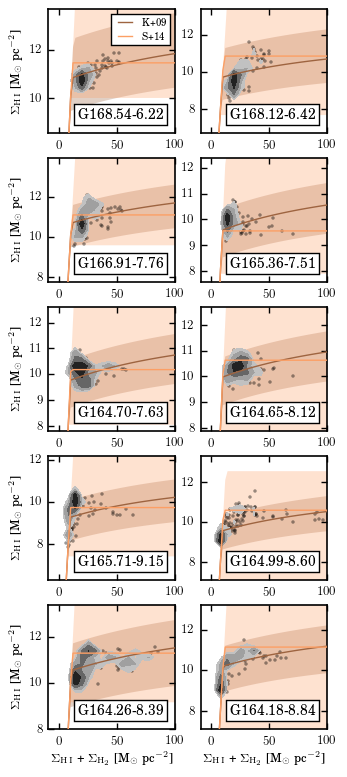
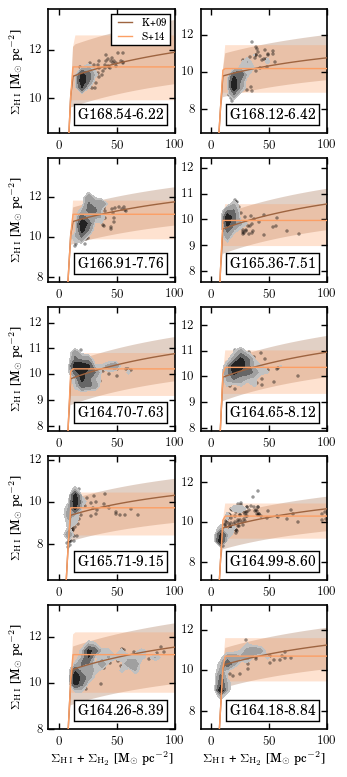
new post

diff --git a/images/2015-10-14/multicloud_model_params.tex b/images/2015-10-14/multicloud_model_params.tex
@@ -1,32 +1,32 @@
-California & G164.18-8.84 & 49.5$^{+33.8}_{-132.7}$ & 4.6$^{+0.5}_{-0.9}$ & 10.4$^{+1.3}_{-1.0}$ \\[0.1cm] 
- & G164.26-8.39 & 41.5$^{+17.6}_{-110.7}$ & 4.4$^{+0.6}_{-1.1}$ & 10.7$^{+1.6}_{-1.2}$ \\[0.1cm] 
- & G164.65-8.12 & 28.8$^{+17.4}_{-38.4}$ & 4.7$^{+0.4}_{-0.8}$ & 10.1$^{+1.1}_{-0.8}$ \\[0.1cm] 
- & G164.70-7.63 & 25.9$^{+10.8}_{-210.9}$ & 4.8$^{+0.5}_{-0.8}$ & 9.9$^{+1.1}_{-0.8}$ \\[0.1cm] 
- & G164.99-8.60 & 45.3$^{+37.8}_{-31.7}$ & 5.0$^{+0.5}_{-0.7}$ & 9.7$^{+1.0}_{-0.8}$ \\[0.1cm] 
- & G165.36-7.51 & 31.2$^{+11.6}_{-42.6}$ & 5.0$^{+0.5}_{-0.8}$ & 9.7$^{+1.1}_{-0.8}$ \\[0.1cm] 
- & G165.71-9.15 & 43.4$^{+22.0}_{-118.6}$ & 5.2$^{+0.6}_{-1.0}$ & 9.4$^{+1.2}_{-0.8}$ \\[0.1cm] 
- & G166.91-7.76 & 34.9$^{+10.9}_{-69.3}$ & 4.3$^{+0.4}_{-0.7}$ & 10.9$^{+1.2}_{-0.9}$ \\[0.1cm] 
- & G168.12-6.42 & 42.3$^{+24.5}_{-95.5}$ & 4.9$^{+0.9}_{-1.0}$ & 9.9$^{+1.3}_{-1.6}$ \\[0.1cm] 
- & G168.54-6.22 & 31.9$^{+9.2}_{-88.9}$ & 4.2$^{+0.7}_{-0.8}$ & 11.0$^{+1.4}_{-1.7}$ \\[0.1cm] 
+California & G164.18-8.84 & 6.7$^{+1.2}_{-1.0}$ & 4.5$^{+0.4}_{-0.8}$ & 10.4$^{+1.2}_{-0.8}$ \\[0.1cm] 
+ & G164.26-8.39 & 7.2$^{+1.7}_{-1.1}$ & 4.4$^{+0.5}_{-1.0}$ & 10.7$^{+1.6}_{-1.0}$ \\[0.1cm] 
+ & G164.65-8.12 & 6.3$^{+1.0}_{-0.7}$ & 4.7$^{+0.4}_{-0.7}$ & 10.1$^{+1.0}_{-0.6}$ \\[0.1cm] 
+ & G164.70-7.63 & 6.2$^{+1.0}_{-0.6}$ & 4.8$^{+0.4}_{-0.8}$ & 10.0$^{+1.1}_{-0.6}$ \\[0.1cm] 
+ & G164.99-8.60 & 6.3$^{+1.1}_{-0.7}$ & 4.9$^{+0.4}_{-0.8}$ & 9.9$^{+1.1}_{-0.6}$ \\[0.1cm] 
+ & G165.36-7.51 & 5.9$^{+0.9}_{-0.6}$ & 4.9$^{+0.4}_{-0.7}$ & 9.8$^{+1.0}_{-0.6}$ \\[0.1cm] 
+ & G165.71-9.15 & 5.7$^{+1.2}_{-0.7}$ & 5.1$^{+0.5}_{-1.1}$ & 9.5$^{+1.3}_{-0.8}$ \\[0.1cm] 
+ & G166.91-7.76 & 7.1$^{+1.3}_{-0.8}$ & 4.3$^{+0.3}_{-0.7}$ & 10.9$^{+1.2}_{-0.7}$ \\[0.1cm] 
+ & G168.12-6.42 & 6.1$^{+1.2}_{-1.3}$ & 4.8$^{+0.7}_{-0.9}$ & 9.9$^{+1.2}_{-1.2}$ \\[0.1cm] 
+ & G168.54-6.22 & 7.3$^{+1.4}_{-1.5}$ & 4.2$^{+0.6}_{-0.7}$ & 11.1$^{+1.3}_{-1.3}$ \\[0.1cm] 
 \hline  \\[-0.2cm] 
-Perseus & G158.26-21.81 & 33.4$^{+29.3}_{-26.5}$ & 7.5$^{+0.3}_{-0.5}$ & 7.2$^{+0.3}_{-0.2}$ \\[0.1cm] 
- & G158.39-20.72 & 31.1$^{+17.7}_{-7.5}$ & 7.7$^{+0.3}_{-0.4}$ & 7.0$^{+0.2}_{-0.2}$ \\[0.1cm] 
- & G158.89-21.60 & 20.4$^{+16.8}_{-32.9}$ & 8.3$^{+0.3}_{-0.5}$ & 6.6$^{+0.3}_{-0.2}$ \\[0.1cm] 
- & G159.17-21.09 & 19.9$^{+16.1}_{-56.6}$ & 8.3$^{+0.2}_{-0.4}$ & 6.6$^{+0.2}_{-0.1}$ \\[0.1cm] 
- & G159.19-20.11 & 19.9$^{+16.3}_{-6.6}$ & 8.8$^{+0.3}_{-0.4}$ & 6.3$^{+0.2}_{-0.2}$ \\[0.1cm] 
- & G159.80-18.49 & 20.3$^{+16.0}_{-36.2}$ & 8.1$^{+0.3}_{-1.2}$ & 6.7$^{+0.7}_{-0.2}$ \\[0.1cm] 
- & G160.14-19.08 & 23.9$^{+18.2}_{-23.9}$ & 7.6$^{+0.3}_{-0.8}$ & 7.1$^{+0.5}_{-0.2}$ \\[0.1cm] 
- & G160.46-17.99 & 20.0$^{+15.6}_{-52.2}$ & 8.6$^{+0.3}_{-0.7}$ & 6.4$^{+0.4}_{-0.2}$ \\[0.1cm] 
- & G160.49-16.81 & 18.7$^{+14.7}_{-49.0}$ & 9.7$^{+0.4}_{-1.1}$ & 5.8$^{+0.4}_{-0.2}$ \\[0.1cm] 
- & G160.53-19.73 & 22.4$^{+5.0}_{-31.6}$ & 8.2$^{+0.2}_{-0.7}$ & 6.6$^{+0.4}_{-0.1}$ \\[0.1cm] 
+Perseus & G158.26-21.81 & 3.8$^{+0.3}_{-0.1}$ & 7.5$^{+0.3}_{-0.6}$ & 7.1$^{+0.4}_{-0.2}$ \\[0.1cm] 
+ & G158.39-20.72 & 4.0$^{+0.3}_{-0.1}$ & 7.7$^{+0.3}_{-0.5}$ & 7.0$^{+0.3}_{-0.2}$ \\[0.1cm] 
+ & G158.89-21.60 & 3.5$^{+0.2}_{-0.1}$ & 8.3$^{+0.3}_{-0.6}$ & 6.6$^{+0.3}_{-0.2}$ \\[0.1cm] 
+ & G159.17-21.09 & 3.3$^{+0.2}_{-0.1}$ & 8.3$^{+0.2}_{-0.5}$ & 6.6$^{+0.3}_{-0.1}$ \\[0.1cm] 
+ & G159.19-20.11 & 3.5$^{+0.2}_{-0.1}$ & 8.8$^{+0.3}_{-0.5}$ & 6.3$^{+0.3}_{-0.1}$ \\[0.1cm] 
+ & G159.80-18.49 & 3.4$^{+0.5}_{-0.2}$ & 8.2$^{+0.4}_{-1.1}$ & 6.7$^{+0.6}_{-0.2}$ \\[0.1cm] 
+ & G160.14-19.08 & 3.7$^{+0.4}_{-0.2}$ & 7.6$^{+0.3}_{-0.8}$ & 7.1$^{+0.5}_{-0.2}$ \\[0.1cm] 
+ & G160.46-17.99 & 3.5$^{+0.3}_{-0.1}$ & 8.6$^{+0.3}_{-0.8}$ & 6.4$^{+0.4}_{-0.2}$ \\[0.1cm] 
+ & G160.49-16.81 & 2.9$^{+0.3}_{-0.1}$ & 9.8$^{+0.4}_{-0.9}$ & 5.8$^{+0.4}_{-0.2}$ \\[0.1cm] 
+ & G160.53-19.73 & 3.3$^{+0.2}_{-0.1}$ & 8.3$^{+0.3}_{-0.6}$ & 6.6$^{+0.3}_{-0.2}$ \\[0.1cm] 
 \hline  \\[-0.2cm] 
-Taurus & G168.10-16.38 & 7.3$^{+2.3}_{-47.8}$ & 18.7$^{+1.2}_{-1.6}$ & 3.5$^{+0.2}_{-0.2}$ \\[0.1cm] 
- & G169.32-16.17 & 10.1$^{+2.7}_{-53.7}$ & 15.3$^{+1.5}_{-1.8}$ & 4.1$^{+0.4}_{-0.4}$ \\[0.1cm] 
- & G171.00-15.80 & 8.7$^{+3.8}_{-81.5}$ & 11.3$^{+0.7}_{-0.8}$ & 5.2$^{+0.3}_{-0.3}$ \\[0.1cm] 
- & G171.14-17.57 & 13.5$^{+9.2}_{-41.8}$ & 11.7$^{+0.9}_{-1.1}$ & 5.1$^{+0.3}_{-0.3}$ \\[0.1cm] 
- & G171.49-14.91 & 14.6$^{+11.2}_{-22.8}$ & 10.4$^{+0.8}_{-0.8}$ & 5.5$^{+0.3}_{-0.3}$ \\[0.1cm] 
- & G172.12-16.94 & 13.7$^{+10.6}_{-37.9}$ & 10.0$^{+1.1}_{-1.4}$ & 5.7$^{+0.5}_{-0.5}$ \\[0.1cm] 
- & G172.93-16.73 & 7.3$^{+4.7}_{-10.8}$ & 9.3$^{+1.0}_{-1.0}$ & 6.0$^{+0.4}_{-0.5}$ \\[0.1cm] 
- & G174.05-15.82 & 28.7$^{+20.3}_{-10.4}$ & 7.3$^{+0.6}_{-0.9}$ & 7.3$^{+0.6}_{-0.5}$ \\[0.1cm] 
- & G174.40-13.45 & 38.0$^{+14.6}_{-14.2}$ & 6.4$^{+0.5}_{-0.7}$ & 8.0$^{+0.6}_{-0.6}$ \\[0.1cm] 
- & G174.70-15.47 & 29.2$^{+22.0}_{-73.1}$ & 5.4$^{+0.5}_{-0.6}$ & 9.1$^{+0.7}_{-0.7}$ \\[0.1cm] 
+Taurus & G168.10-16.38 & 1.7$^{+0.1}_{-0.1}$ & 18.9$^{+1.2}_{-1.5}$ & 3.5$^{+0.2}_{-0.2}$ \\[0.1cm] 
+ & G169.32-16.17 & 1.9$^{+0.2}_{-0.2}$ & 15.8$^{+1.8}_{-1.7}$ & 4.0$^{+0.3}_{-0.4}$ \\[0.1cm] 
+ & G171.00-15.80 & 2.5$^{+0.2}_{-0.2}$ & 11.4$^{+0.7}_{-1.0}$ & 5.2$^{+0.3}_{-0.3}$ \\[0.1cm] 
+ & G171.14-17.57 & 2.4$^{+0.2}_{-0.2}$ & 11.9$^{+0.9}_{-1.1}$ & 5.0$^{+0.3}_{-0.3}$ \\[0.1cm] 
+ & G171.49-14.91 & 2.8$^{+0.2}_{-0.2}$ & 10.5$^{+0.6}_{-0.9}$ & 5.5$^{+0.3}_{-0.3}$ \\[0.1cm] 
+ & G172.12-16.94 & 2.9$^{+0.4}_{-0.3}$ & 10.0$^{+0.9}_{-1.5}$ & 5.7$^{+0.6}_{-0.4}$ \\[0.1cm] 
+ & G172.93-16.73 & 3.1$^{+0.3}_{-0.3}$ & 9.3$^{+0.7}_{-1.0}$ & 6.0$^{+0.5}_{-0.4}$ \\[0.1cm] 
+ & G174.05-15.82 & 4.1$^{+0.6}_{-0.4}$ & 7.3$^{+0.6}_{-1.1}$ & 7.3$^{+0.7}_{-0.5}$ \\[0.1cm] 
+ & G174.40-13.45 & 4.8$^{+0.6}_{-0.5}$ & 6.4$^{+0.5}_{-0.7}$ & 8.0$^{+0.6}_{-0.5}$ \\[0.1cm] 
+ & G174.70-15.47 & 5.6$^{+0.8}_{-0.5}$ & 5.4$^{+0.5}_{-0.6}$ & 9.1$^{+0.7}_{-0.6}$ \\[0.1cm] 
